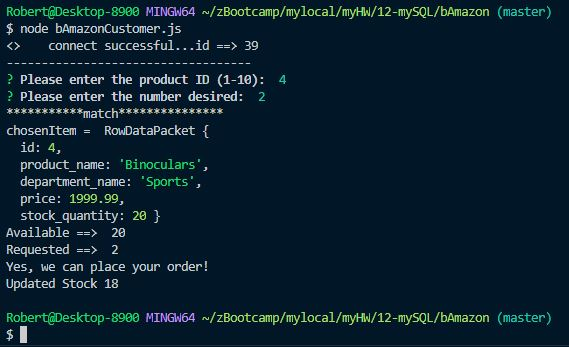
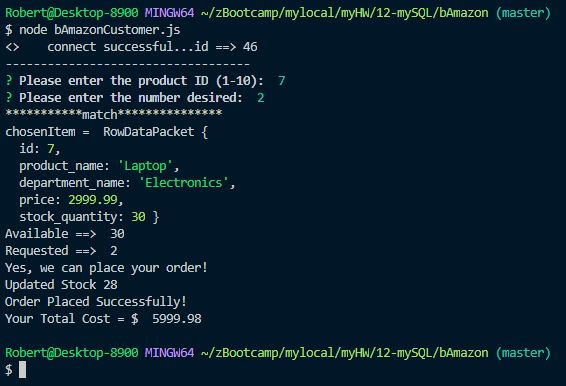
added total cost - updated screenshot

Changed region(s): [[0.0, 0.0, 0.9912, 0.8357], [0.0, 0.8934, 1.0, 1.0]]

diff --git a/bAmazonCustomer.js b/bAmazonCustomer.js
@@ -77,6 +77,7 @@ function start() {
                     
                     var updatedInStock = parseInt(chosenItem.stock_quantity) - parseInt(answer.stock_quantity);
                     console.log('Updated Stock',updatedInStock);
+
                     
                     connection.query(
                         "UPDATE products SET ? WHERE ?",
@@ -93,9 +94,11 @@ function start() {
                             // console.log("answer ", answer);
                         }
                     );
-
-
-                    //console.log("Order Placed Successfully!");
+                    // console.log(answer.stock_quantity);
+                    // console.log(chosenItem.price);
+                    var totalCost = answer.stock_quantity*chosenItem.price;
+                    console.log("Order Placed Successfully!");
+                    console.log("Your Total Cost = $ ",totalCost);
 
                 } else {
                     console.log("Sorry, we do not have enough in stock, please resubmit new order!")
